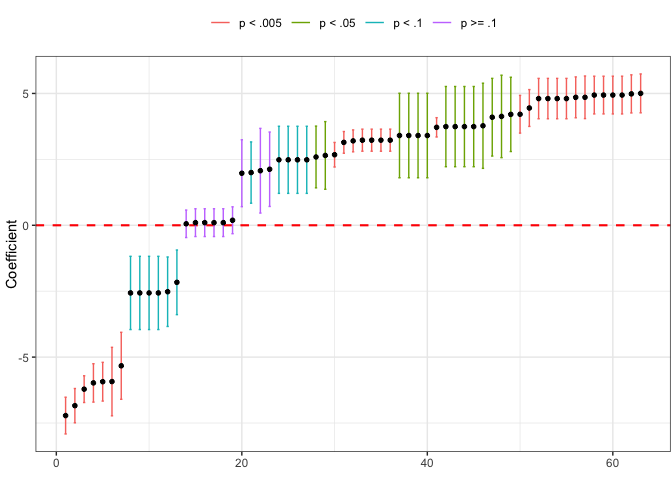
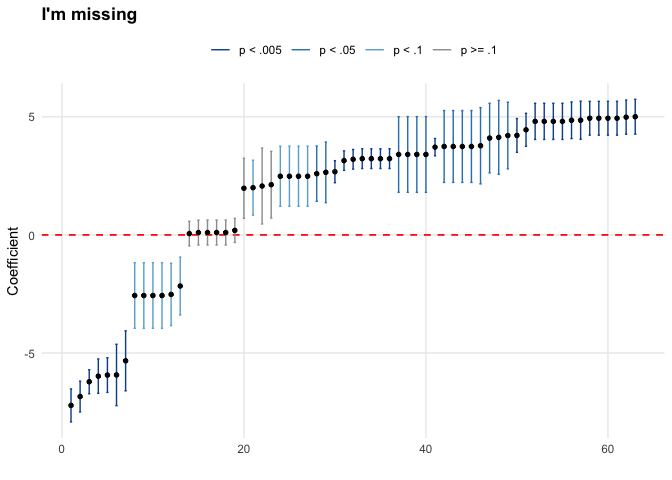
Overhaul visualizations: shared theme, palette, patchwork, reference lines
* Add an exported theme_sca() and an internal colour-blind-safe significance
  palette (sequential blues, darker = more significant; grey for non-significant)
  applied consistently across every plotting function.
* plotCurve() and the model-fit plots (plotRMSE/plotR2Adj/plotAIC/plotDeviance)
  now combine their curve and variable panels with patchwork instead of manual
  grob-stacking. The combined plot is a patchwork object, so it is customisable
  (fixing the previous "only customisable when plotVars=FALSE" limitation) and
  the panels align precisely.
* plotCurve() gains `medianLine` (dotted line at the median coefficient) and
  `pointSize` arguments.
* plotControlDistributions() gains a `zeroLine` argument (default TRUE) and uses
  a single cohesive fill instead of a clashing colour per facet.
* plotSE() adopts the shared theme and palette.
* Add patchwork to Imports; register new globalVariables; re-knit the README;
  add tests for the new plotting behaviour.

R CMD check --as-cran clean (examples + tests pass; only the dev-version and
local HTML-Tidy NOTEs).

diff --git a/README.md b/README.md
@@ -289,13 +289,13 @@ se_compare(formula = "Salnty ~ T_degC + ChlorA", data = bottles,
            types = c("iid", "bootstrapped"),
            bootSamples=c(8, 10), bootSampleSize=c(200, 300))
 #>                  estimate         iid bootstrap_k8n200 bootstrap_k10n200
-#> (Intercept) 34.2940251811 0.097594017       0.10468529        0.16947611
-#> T_degC      -0.0599783335 0.007428642       0.00652081        0.01425708
-#> ChlorA       0.0006514447 0.012449618       0.07140932        0.07822521
+#> (Intercept) 34.2940251811 0.097594017       0.07297819        0.18745663
+#> T_degC      -0.0599783335 0.007428642       0.00489322        0.01472213
+#> ChlorA       0.0006514447 0.012449618       0.05485791        0.05375581
 #>             bootstrap_k8n300 bootstrap_k10n300
-#> (Intercept)       0.05479602       0.106369136
-#> T_degC            0.00397893       0.008672805
-#> ChlorA            0.04452761       0.004257291
+#> (Intercept)      0.086427537       0.096274125
+#> T_degC           0.007171396       0.007345186
+#> ChlorA           0.057571435       0.046105744
 ```
 
 Clustered standard errors are also supported:
@@ -361,31 +361,31 @@ formulae <- sca(y = "T_degC", x = "Salnty",
 formulae
 #> $`T_degC ~ Salnty + O2Sat`
 #> T_degC ~ Salnty + O2Sat
-#> <environment: 0x11cec0b90>
+#> <environment: 0x1501820a8>
 #> 
 #> $`T_degC ~ Salnty + NO2uM`
 #> T_degC ~ Salnty + NO2uM
-#> <environment: 0x11cec0b90>
+#> <environment: 0x1501820a8>
 #> 
 #> $`T_degC ~ Salnty + SiO3uM`
 #> T_degC ~ Salnty + SiO3uM
-#> <environment: 0x11cec0b90>
+#> <environment: 0x1501820a8>
 #> 
 #> $`T_degC ~ Salnty + O2Sat + NO2uM`
 #> T_degC ~ Salnty + O2Sat + NO2uM
-#> <environment: 0x11cec0b90>
+#> <environment: 0x1501820a8>
 #> 
 #> $`T_degC ~ Salnty + O2Sat + SiO3uM`
 #> T_degC ~ Salnty + O2Sat + SiO3uM
-#> <environment: 0x11cec0b90>
+#> <environment: 0x1501820a8>
 #> 
 #> $`T_degC ~ Salnty + NO2uM + SiO3uM`
 #> T_degC ~ Salnty + NO2uM + SiO3uM
-#> <environment: 0x11cec0b90>
+#> <environment: 0x1501820a8>
 #> 
 #> $`T_degC ~ Salnty + O2Sat + NO2uM + SiO3uM`
 #> T_degC ~ Salnty + O2Sat + NO2uM + SiO3uM
-#> <environment: 0x11cec0b90>
+#> <environment: 0x1501820a8>
 ```
 
 Then it’s easy to estimate the models yourself with the pre-made

diff --git a/NEWS.md b/NEWS.md
@@ -9,6 +9,12 @@
   coefficient's estimate with a confidence interval for every standard error
   type so the sensitivity of inference to the choice of standard error is easy
   to see.
+* Visualization overhaul: a shared, colour-blind-safe palette and an exported
+  `theme_sca()` are now applied across all plots; `plotCurve()` and the
+  model-fit plots combine their panels with `patchwork` (so the combined plot
+  is now customisable and panels align precisely); `plotCurve()` gains
+  `medianLine` and `pointSize` arguments; and `plotControlDistributions()` gains
+  a `zeroLine` argument and a cohesive fill.
 
 # speccurvieR 0.5.0
 
